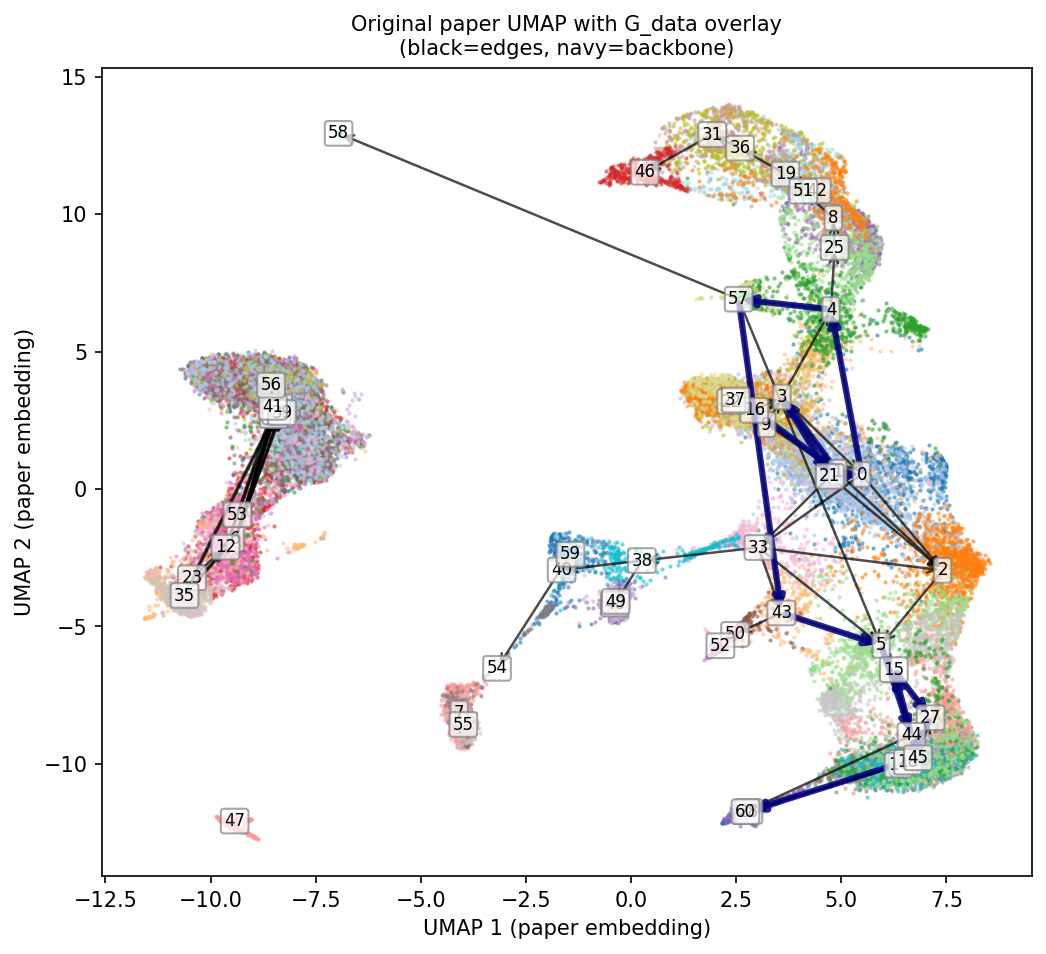
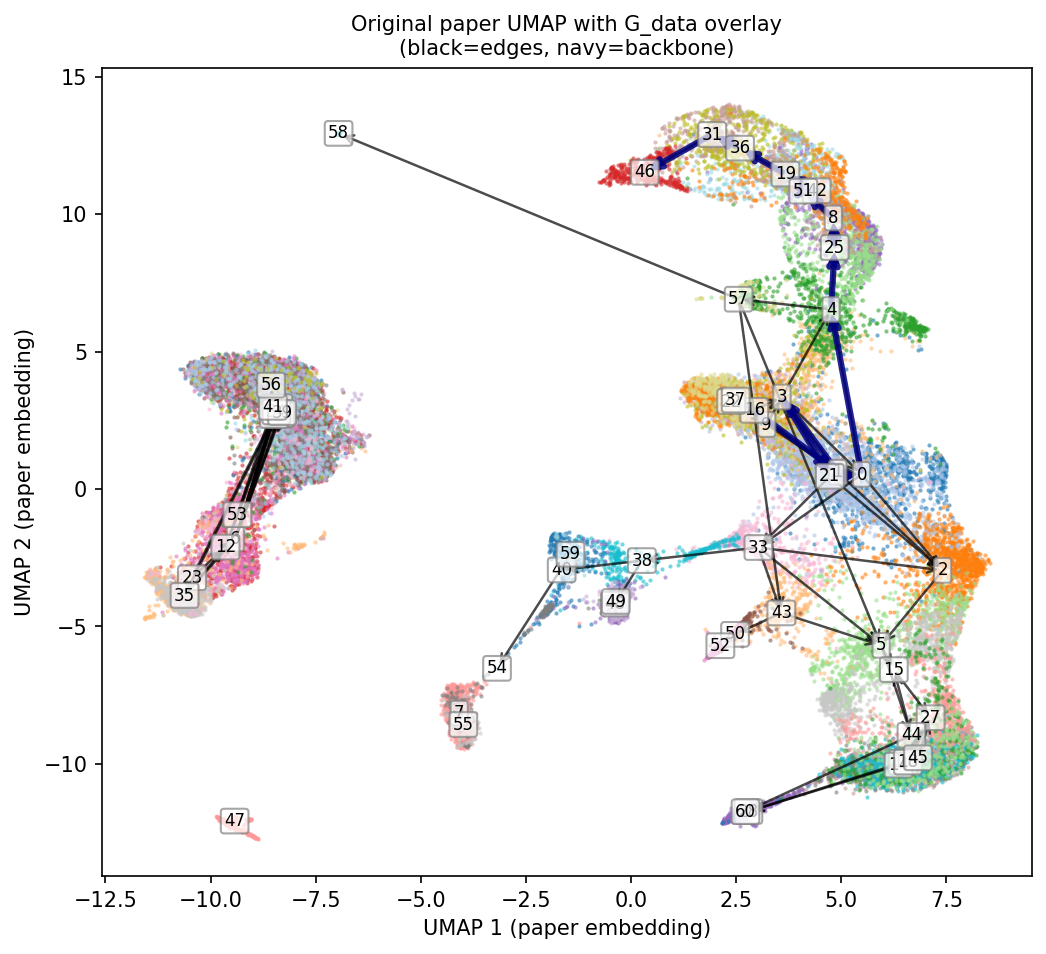
Phase 2 prep: backbone = max-weight path (sum_weight) instead of edge_count longest-path
User observed: '0->4, 57->43 are far apart on UMAP yet drawn as navy
backbone'. Root cause was twofold: (1) UMAP distance != manifold
distance — 57->43 has PAGA weight 0.56 which is actually a strong
edge despite the 11.5 UMAP-unit gap, (2) longest-path algorithm
maximized hop count, ignoring edge weights, so it happily took weak
0.26-weight edges to extend the chain.

Fix: _longest_path_length() now takes weight_mode parameter; default
flipped to 'sum_weight'. Backbone now follows highest-PAGA-connectivity
path. _validate_backbone() returns both backbones (chosen + alt) for
inspection.

Effect on Hay/Zeng2025 30k:
  Path: 16->1->3->21->0->4->57->43->5->44->15->27->18->14->11->28 (16 nodes)
  ->   16->1->3->21->0->4->25->8->51->42->19->36->31->46 (14 nodes)
  Sum PAGA weight: 8.70 -> 9.79
  Mean edge weight: 0.580 -> 0.753
  Max UMAP-distance edge: 11.46 -> 6.04
  7 of 13 edges now have PAGA weight = 1.000 (max)
  Kendall tau: 0.778 -> 0.727 (plateau-heavy progenitor stretch)

21/21 synthetic tests still pass. Hay smoke compatible.

diff --git a/dcta/dag.py b/dcta/dag.py
@@ -226,37 +226,50 @@ def build(
     return a
 
 
-def _longest_path_length(G: nx.DiGraph, source: str) -> tuple[list[str], int]:
-    """Return (longest_path_from_source, length) in a DAG. Empty list if no
-    reachable nodes."""
+def _longest_path_length(G: nx.DiGraph, source: str,
+                         weight_mode: str = "edge_count") -> tuple[list[str], float]:
+    """Return (best_path_from_source, score) in a DAG.
+
+    weight_mode:
+      - "edge_count" (default, legacy): maximize number of edges.
+      - "sum_weight":  maximize sum of edge 'weight' attribute.
+        Backbone follows the strongest manifold-connectivity path rather
+        than the longest hop-count chain. Prefers heavy edges, avoids
+        forcing weak threshold-near edges into the spine.
+
+    Returns (path nodes, score). Empty list / 0.0 if source unreachable.
+    """
     if source not in G.nodes:
-        return [], 0
-    # Among descendants of source, find the topological-order path with max length
+        return [], 0.0
     desc = nx.descendants(G, source) | {source}
     sub = G.subgraph(desc)
     if sub.number_of_nodes() == 0:
-        return [], 0
-    # Longest path in DAG via DP on topo order
+        return [], 0.0
     topo = list(nx.topological_sort(sub))
-    dist = {n: 0 for n in topo}
-    parent = {n: None for n in topo}
+    score: dict[str, float] = {n: 0.0 for n in topo}
+    parent: dict[str, str | None] = {n: None for n in topo}
     for u in topo:
         for v in sub.successors(u):
-            if dist[u] + 1 > dist[v]:
-                dist[v] = dist[u] + 1
+            if weight_mode == "sum_weight":
+                inc = float(sub[u][v].get("weight", 0.0))
+            else:
+                inc = 1.0
+            if score[u] + inc > score[v]:
+                score[v] = score[u] + inc
                 parent[v] = u
-    end = max(dist, key=dist.get)
-    path = []
-    cur = end
+    end = max(score, key=score.get)
+    path: list[str] = []
+    cur: str | None = end
     while cur is not None:
         path.append(cur)
         cur = parent[cur]
     path.reverse()
-    return path, dist[end]
+    return path, score[end]
 
 
 def _validate_backbone(G: nx.DiGraph,
-                       cluster_seniority: dict[str, int]) -> dict:
+                       cluster_seniority: dict[str, int],
+                       weight_mode: str = "sum_weight") -> dict:
     """Check whether G_data's backbone chain matches expected hematopoietic order.
 
     The "backbone" is defined as the longest directed path starting from the
@@ -303,11 +316,23 @@ def _validate_backbone(G: nx.DiGraph,
         sources = [n for n in G.nodes if G.in_degree(n) == 0]
         root = sources[0] if sources else next(iter(G.nodes))
     out["root_cluster"] = root
+    out["weight_mode"] = weight_mode
 
-    path, length = _longest_path_length(G, root)
+    path, score = _longest_path_length(G, root, weight_mode=weight_mode)
     out["backbone_path"] = path
-    out["backbone_length"] = length
+    out["backbone_length"] = len(path) - 1 if len(path) >= 1 else 0
+    out["backbone_score"] = float(score)  # edge count OR sum of weights
     out["backbone_seniority"] = [(n, cluster_seniority.get(n)) for n in path]
+
+    # Also compute the alternative for comparison/inspection
+    alt_mode = "edge_count" if weight_mode == "sum_weight" else "sum_weight"
+    alt_path, alt_score = _longest_path_length(G, root, weight_mode=alt_mode)
+    out["alt_backbone"] = {
+        "weight_mode": alt_mode,
+        "path": alt_path,
+        "score": float(alt_score),
+        "length": (len(alt_path) - 1) if len(alt_path) >= 1 else 0,
+    }
 
     # Monotonicity over clusters whose seniority is known
     known = [s for _, s in out["backbone_seniority"] if s is not None]
